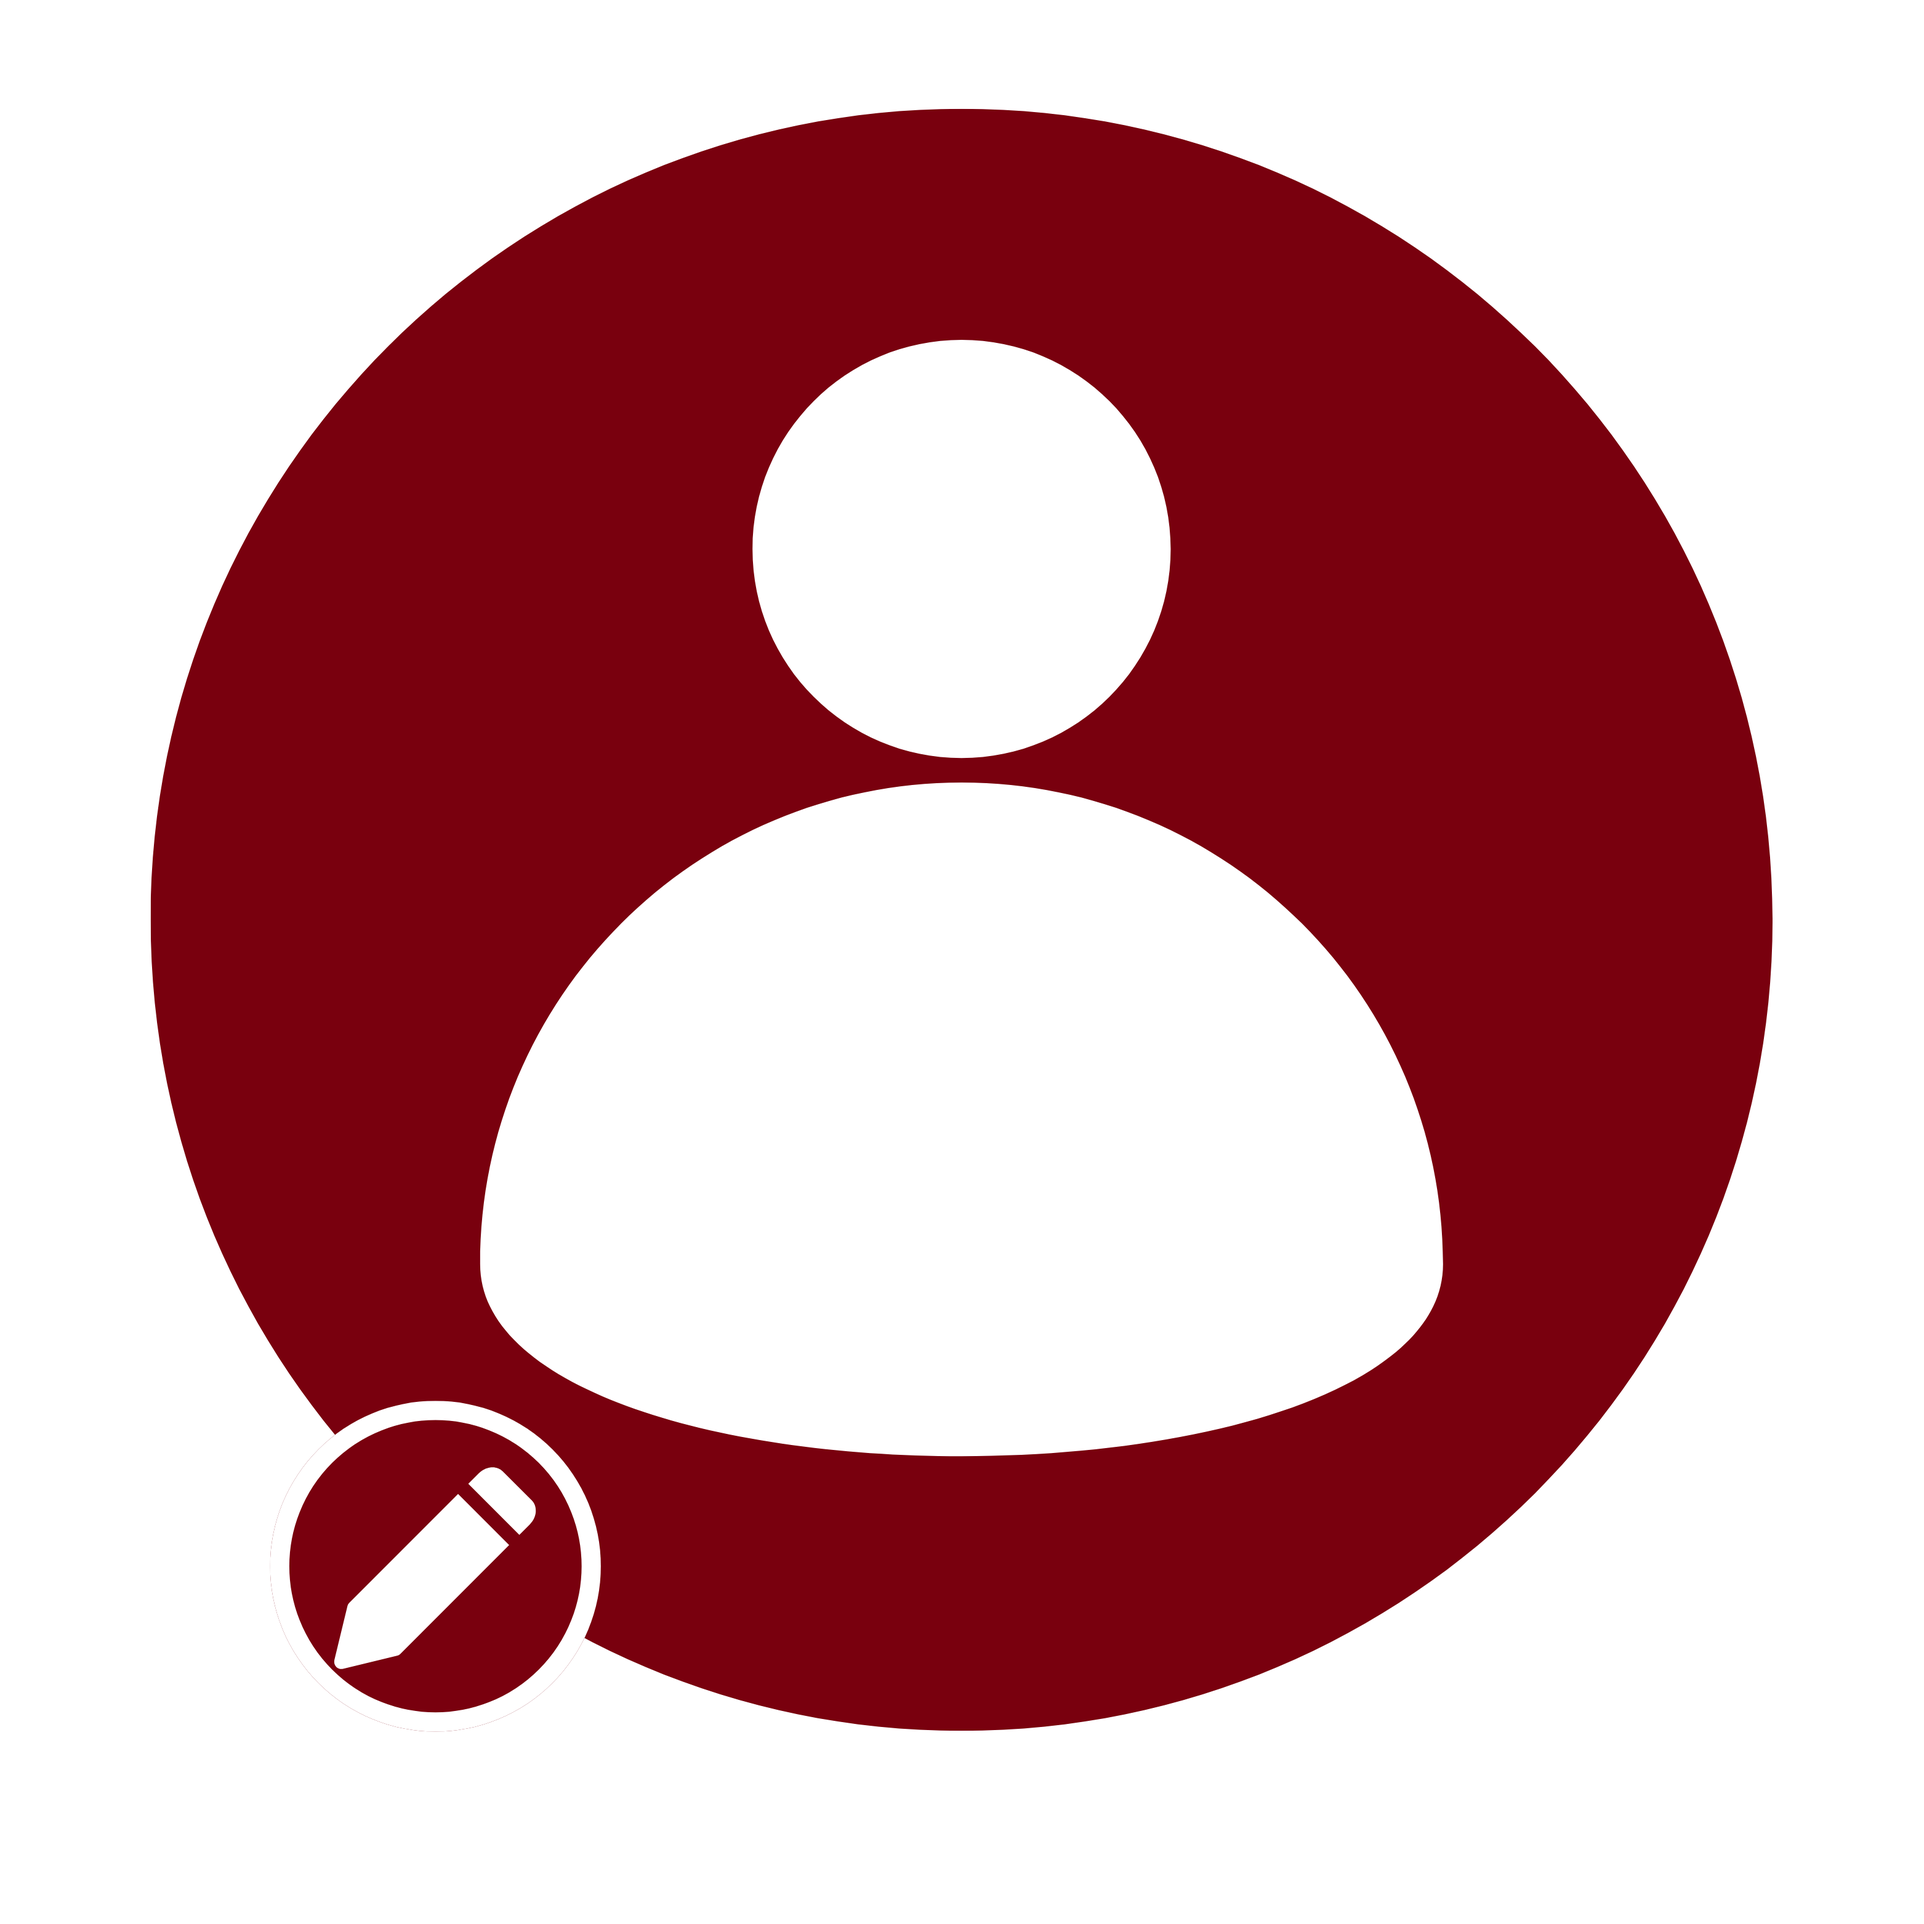
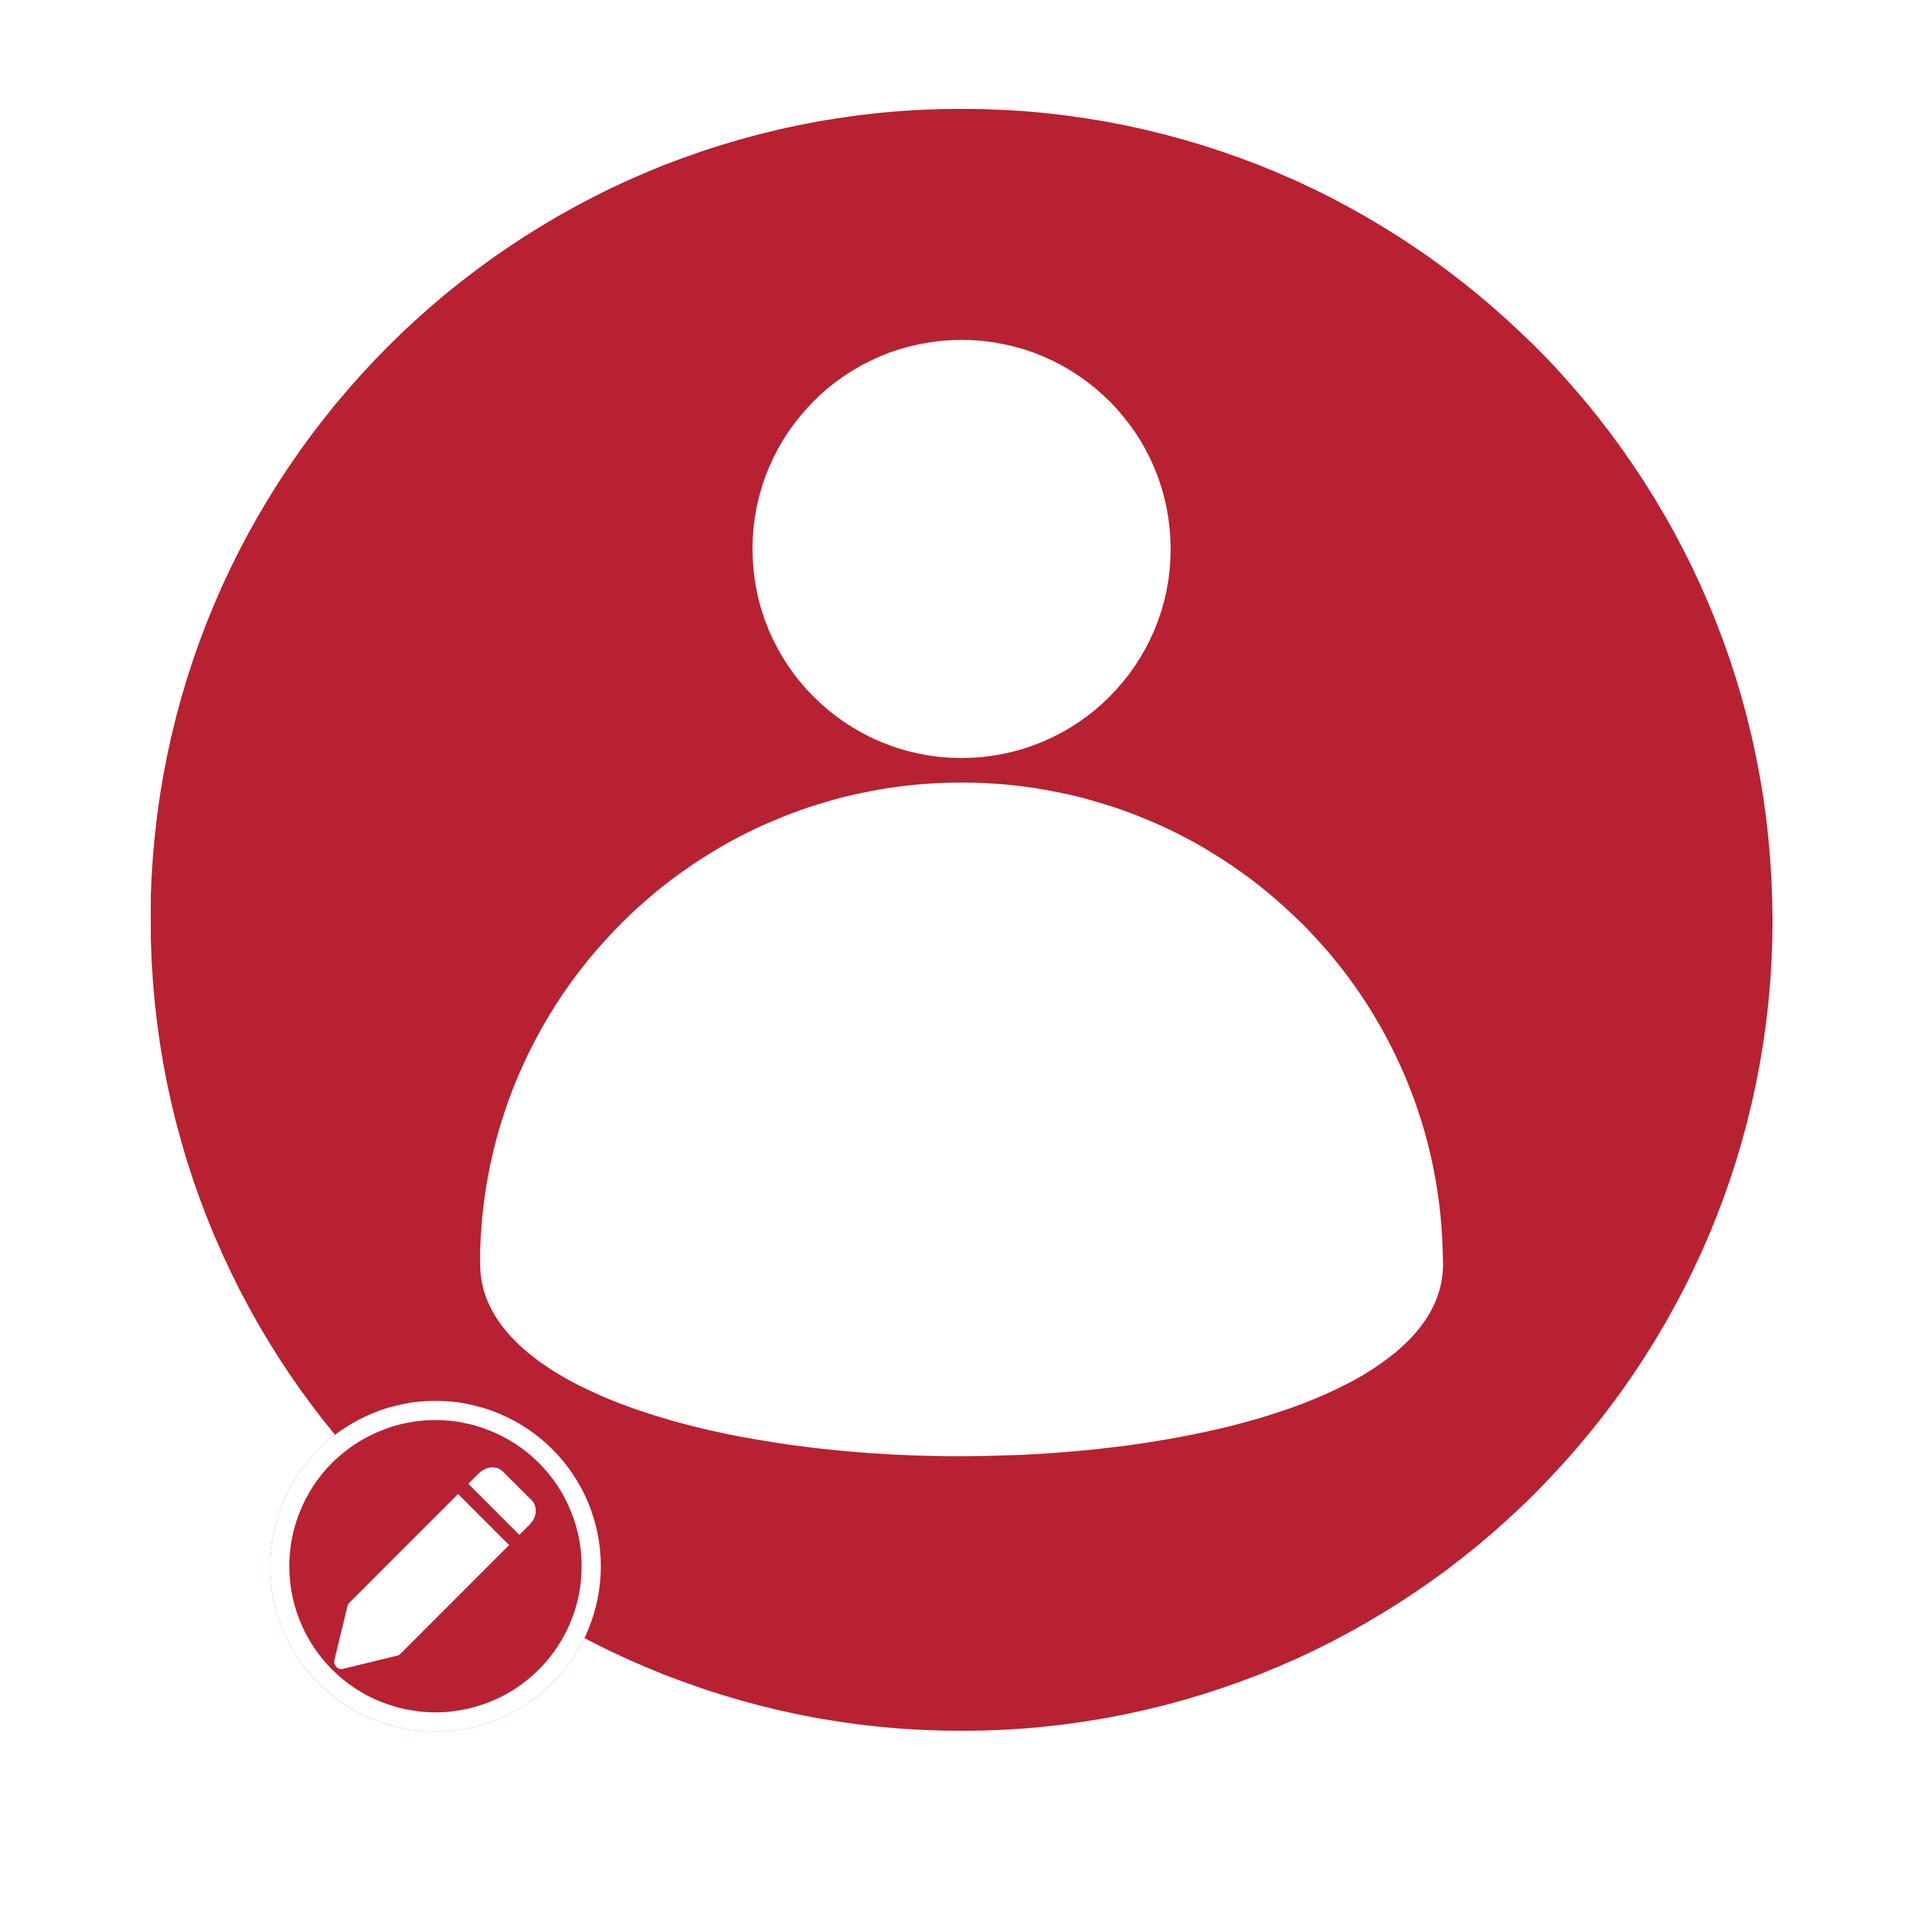
criação da tela de cadastro2 (endereço)

diff --git a/src/pages/Cadastro2/index.js b/src/pages/Cadastro2/index.js
@@ -1,0 +1,127 @@
+import { Text, View, Pressable, TextInput, Image, Button } from "react-native";
+import styles from "./style";
+import { useNavigation } from "@react-navigation/native";
+import React, { useState } from "react";
+import AsyncStorage from "@react-native-async-storage/async-storage";
+import { Modal } from "react-native-web";
+import { Picker } from "@react-native-picker/picker";
+
+export default function Cadastro() {
+  const navigation = useNavigation();
+
+  const [cep, setCep] = useState("");
+  const [logradouro, setLogradouro] = useState("");
+  const [numero, setNumero] = useState("");
+  const [bairro, setBairro] = useState("");
+  const [cidade, setCidade] = useState("");
+  const [loading, setLoading] = useState(false);
+  const [modal, setModal] = useState(false);
+  const [modalMessage, setModalMessage] = useState("");
+
+  const salvarDados = async () => {
+    if (!nome || !dataNasc || !peso || !altura || !tipoSangue) {
+      alert("Por favor, preencha todos os campos.");
+      return;
+    }
+
+    const dadosUsuario = {
+      nome,
+      dataNasc,
+      peso,
+      altura,
+      tipoSangue,
+    };
+
+    try {
+      await AsyncStorage.setItem("dadosUsuario", JSON.stringify(dadosUsuario));
+      setLoading(false);
+      setModalMessage("Cadastro realizado com sucesso!!!");
+      setModal(true);
+      navigation.navigate("Home");
+    } catch (e) {
+      setModalMessage("Erro ao salvar os dados no AsyncStorage");
+      setModal(true);
+    }
+  };
+
+  return (
+    <View style={styles.container}>
+      <View style={styles.header}>
+        <Image
+          source={require("../../../assets/logo.png")}
+          style={styles.logo}
+        />
+      </View>
+
+      <View style={styles.containerTitulo}>
+        <Image
+          source={require("../../../assets/voltar.png")}
+          style={styles.voltar}
+        />
+        <Text style={styles.titulo}>Cadastre-se</Text>
+        <Image
+          source={require("../../../assets/perfil.png")}
+          style={styles.imgPerfil}
+        />
+      </View>
+
+      <View style={styles.containerInput}>
+        <TextInput
+          style={styles.input}
+          placeholder="CEP"
+          value={cep}
+          onChangeText={(text) => setCep(text)}
+        />
+        <TextInput
+          style={styles.input}
+          placeholder="Logradouro"
+          value={logradouro}
+          onChangeText={(text) => setLogradouro(text)}
+        />
+
+        <TextInput
+          style={styles.input}
+          placeholder="Número"
+          value={numero}
+          onChangeText={(text) => setNumero(text)}
+        />
+
+        <TextInput
+          style={styles.input}
+          placeholder="Bairro"
+          value={bairro}
+          onChangeText={(text) => setBairro(text)}
+        />
+
+        <TextInput
+          style={styles.input}
+          placeholder="Cidade"
+          value={cidade}
+          onChangeText={(text) => setCidade(text)}
+        />
+
+        <Pressable onPress={salvarDados}>
+          <Image
+            source={require("../../../assets/plus.png")}
+            style={styles.iconMais}
+          />
+          <Text style={styles.btnHome}>Cadastrar</Text>
+        </Pressable>
+      </View>
+
+      <Modal
+        visible={modal}
+        animationType="fade"
+        transparent={true}
+        onRequestClose={() => setModal(false)}
+      >
+        <View style={styles.modal}>
+          <View style={styles.modalContainer}>
+            <Text style={styles.modalText}>{modalMessage}</Text>
+            <Button title="Fechar" onPress={() => setModal(false)} />
+          </View>
+        </View>
+      </Modal>
+    </View>
+  );
+}

diff --git a/src/pages/Cadastro2/style.js b/src/pages/Cadastro2/style.js
@@ -1,0 +1,118 @@
+import { StyleSheet } from "react-native";
+
+export default StyleSheet.create({
+  container: {
+    flex: 1,
+    backgroundColor: "#fff",
+    alignItems: "center",
+    justifyContent: "center",
+  },
+
+  header: {
+    height: 80,
+    width: "100%",
+    justifyContent: "space-between",
+    flexDirection: "row",
+    padding: 5,
+    alignItems: "center",
+    textAlign: "center",
+    backgroundColor: '#b82132',
+  },
+
+  logo: {
+    width: 120,
+    height: 120,
+  },
+
+  containerTitulo: {
+    alignItems: "center",
+    justifyContent: "center",
+  },
+
+  voltar: {
+    width: 30,
+    height: 30,
+    position: "absolute",
+    top: 10,
+    left: -100
+  },
+
+  titulo: {
+    fontSize: 20,
+    fontWeight: "bold",
+    color: '#b82132',
+    padding: 5,
+    textTransform: "uppercase",
+  },
+
+  imgPerfil: {
+    width: 120,
+    height: 120
+  },
+
+  containerInput: {
+    backgroundColor: '#b82132',
+    borderTopRightRadius: 80,
+    borderTopLeftRadius: 80,
+    width: "100%",
+    height: 600,
+    alignItems: "center",
+    justifyContent: "center",
+    gap: 22,
+    marginTop: 30
+  },
+
+  input: {
+    borderColor: "#FFFFFF",
+    backgroundColor: "#FFFFFF",
+    color: '#b82132',
+    borderRadius: 20,
+    fontWeight: "bold",
+    borderWidth: 1,
+    width: "88%",
+    height: 40,
+    padding: 20,
+    textTransform: "uppercase",
+  },
+
+  btnHome: {
+    fontSize: 18,
+    fontWeight: "bold",
+    color: '#b82132',
+    backgroundColor: "#fff",
+    padding: 10,
+    borderRadius: 15,
+    textTransform: "uppercase",
+    marginTop: 50,
+    width: 150,
+    textAlign: 'end',
+  },
+
+  iconMais: {
+    width: 30,
+    height: 30,
+    position: "absolute",
+    zIndex: 1,
+    top: 58,
+    left: 4
+  },
+
+  modal: {
+    flex: 1,
+    justifyContent: "center",
+    alignItems: "center",
+    backgroundColor: "rgba(0, 0, 0, 0.5)",
+  },
+  modalContainer: {
+    backgroundColor: "white",
+    padding: 20,
+    borderRadius: 10,
+    width: "80%",
+    alignItems: "center",
+  },
+  modalText: {
+    fontSize: 18,
+    marginBottom: 20,
+    textAlign: "center",
+  },
+});

diff --git a/App.js b/App.js
@@ -1,23 +1,26 @@
-import React from 'react';
-import { NavigationContainer } from '@react-navigation/native';
-import { createNativeStackNavigator } from '@react-navigation/native-stack';
+import React from "react";
+import { NavigationContainer } from "@react-navigation/native";
+import { createNativeStackNavigator } from "@react-navigation/native-stack";
 
-import Splash from './src/pages/Splash';
-import Cadastro from './src/pages/Cadastro';
-import Home from './src/pages/Home';
+import Splash from "./src/pages/Splash";
+import Cadastro from "./src/pages/Cadastro";
+import Cadastro2 from "./src/pages/Cadastro2";
+import Home from "./src/pages/Home";
 
 const Stack = createNativeStackNavigator();
 export default function App() {
   return (
     <NavigationContainer>
       <Stack.Navigator
-        initialRouteName="Cadastro"
+        initialRouteName="Cadastro2"
         screenOptions={{
           headerShown: false,
-        }}>
+        }}
+      >
         <Stack.Screen name="Splash" component={Splash} />
         <Stack.Screen name="Cadastro" component={Cadastro} />
-        <Stack.Screen name="Home" component={Home} />    
+        <Stack.Screen name="Cadastro2" component={Cadastro2} />
+        <Stack.Screen name="Home" component={Home} />
       </Stack.Navigator>
     </NavigationContainer>
   );
